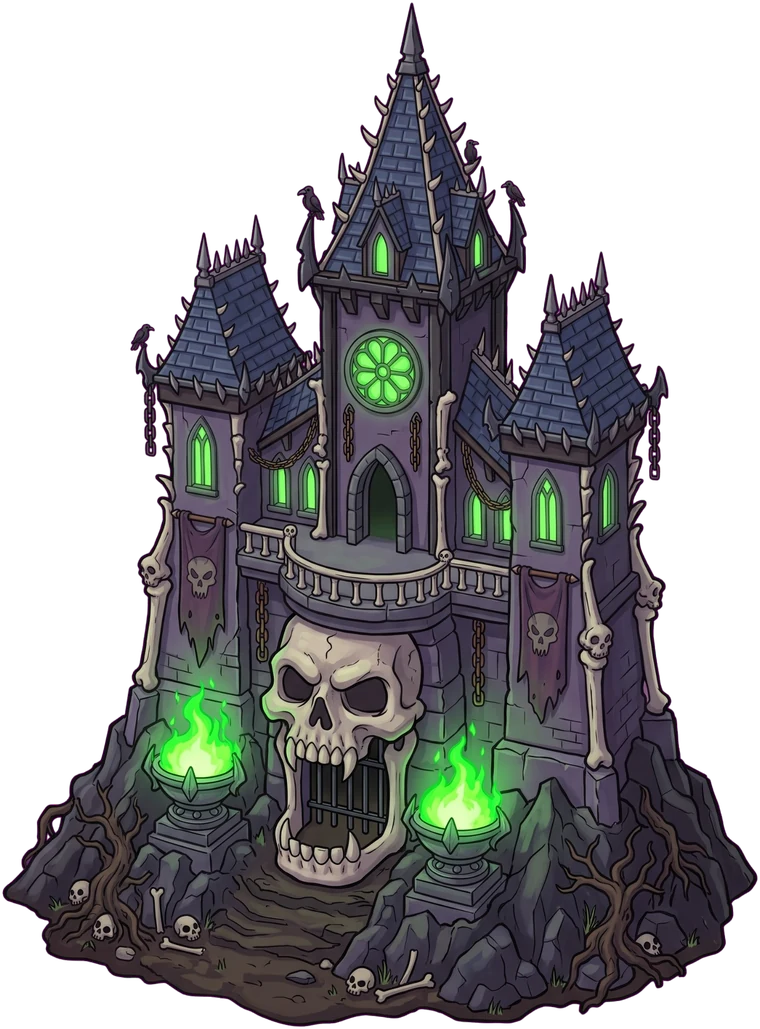
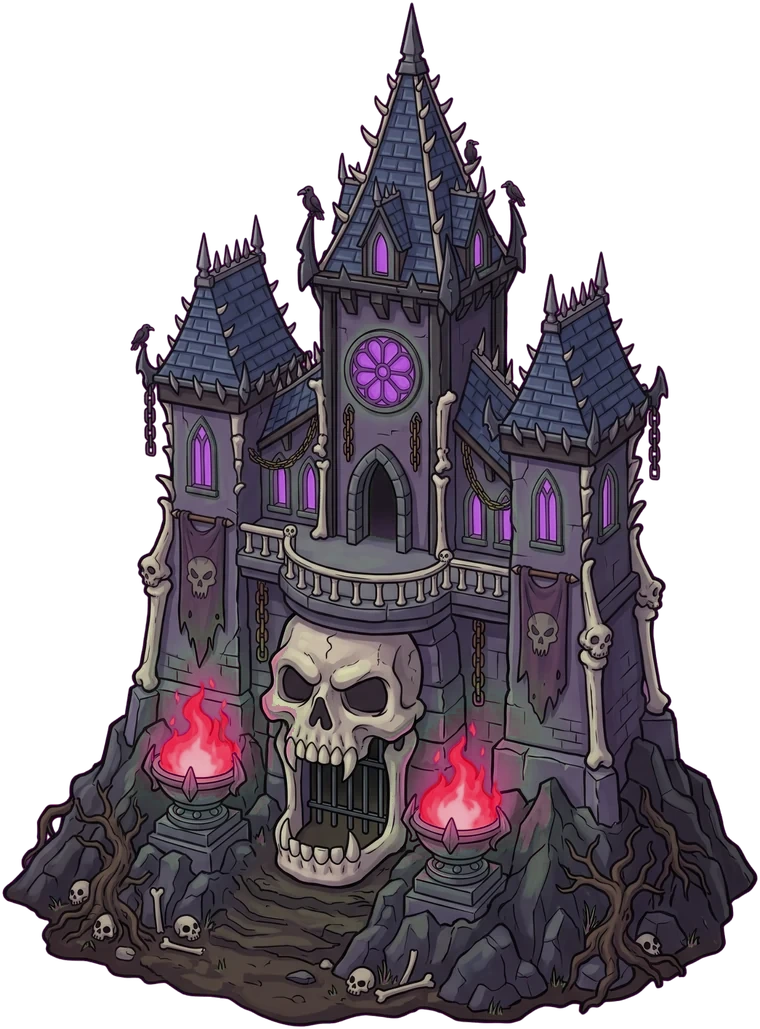
Kale yeşilleri mor/kızıl; dirilen ölüler morumsu kızıl, öne eğik zombi yürüyüşü, daha uzaktan saldırır

diff --git a/sinir-kalesi/js/game.js b/sinir-kalesi/js/game.js
@@ -108,9 +108,10 @@ function rottenOf(name, im) {
   const d = g.getImageData(0, 0, c.width, c.height), a = d.data;
   for (let i = 0; i < a.length; i += 4) {
     const L = a[i] * 0.3 + a[i + 1] * 0.59 + a[i + 2] * 0.11;
-    a[i] = (a[i] * 0.3 + (L * 0.74 + 16) * 0.7) * 0.86;
-    a[i + 1] = (a[i + 1] * 0.3 + (L * 0.92 + 30) * 0.7) * 0.86;
-    a[i + 2] = (a[i + 2] * 0.3 + (L * 0.68 + 12) * 0.7) * 0.86;
+    // 11 Eki (Caner): morumsu kızıl ceset rengi (eskiden solgun yeşil-gri)
+    a[i] = (a[i] * 0.3 + (L * 0.98 + 30) * 0.7) * 0.86;
+    a[i + 1] = (a[i + 1] * 0.3 + (L * 0.6 + 4) * 0.7) * 0.86;
+    a[i + 2] = (a[i + 2] * 0.3 + (L * 0.84 + 22) * 0.7) * 0.86;
   }
   g.putImageData(d, 0, 0);
   return (ROT[name] = c);
@@ -4176,15 +4177,15 @@ function raiseMinion(e, delay = 0) {
   if (G.soldiers.filter(s => s.minion && !s.dead).length >= S.max) return;
   if (G.stats) G.stats.raised++;
   const s = { militia: true, merc: true, minion: true, x: e.x, y: e.y, rx: e.x, ry: e.y, hp: M.hp * up, maxHp: M.hp * up, dmg: M.dmg, armor: M.armor,
-    rate: 1, speed: 40, engage: 60, atk: 0, target: null, dead: false, face: e.face || 1, anim: 0, slot: G.soldiers.length % 4, life: M.life * up, born: G.t + delay };
+    rate: 1, speed: 40, engage: 80, atk: 0, target: null, dead: false, face: e.face || 1, anim: 0, slot: G.soldiers.length % 4, life: M.life * up, born: G.t + delay }; // engage 80: dirilenler düşmana daha uzaktan saldırır
   // ceset düşmanın kendi kılığında kalkar (çürümüş renkte), en yakın düşmana saldırır
   if (e.name) {
     const D = ENEMIES[e.name.slice(6)];
     s.zname = e.name; s.zrig = e.rig; s.zh = e.h || (D ? D.r * 2.6 : 30); s.zombie = true;
   }
   G.soldiers.push(s);
-  G.effects.push({ kind: 'pillar', x: e.x, y: e.y, col: '140,255,140', t: 0, dur: 0.7 });
-  for (let i = 0; i < 8; i++) emit(G.parts, { kind: 'glow', add: true, x: e.x + rand(-8, 8), y: e.y - rand(0, 20), vy: -rand(20, 45), col: '140,255,120', s0: rand(2, 4), s1: 0.5, life: rand(0.5, 0.9) });
+  G.effects.push({ kind: 'pillar', x: e.x, y: e.y, col: '190,70,255', t: 0, dur: 0.7 });
+  for (let i = 0; i < 8; i++) emit(G.parts, { kind: 'glow', add: true, x: e.x + rand(-8, 8), y: e.y - rand(0, 20), vy: -rand(20, 45), col: i % 2 ? '230,50,110' : '190,80,255', s0: rand(2, 4), s1: 0.5, life: rand(0.5, 0.9) });
 }
 // Mortimer şapelin ön balkonunda durur. Hasar evresine göre (castle_1..3): at = ayak noktası (görsel oranı),
 // rail = korkuluk dikdörtgeni (x0, y0, x1, y1; Mortimer'dan sonra yeniden çizilir, ayakları korkuluğun arkasında kalır;
@@ -4291,7 +4292,7 @@ function drawNecroGlyph(id, r) {
     const im = spr('unit_skel_1');
     ctx.fillStyle = 'rgba(30,16,8,0.7)'; ctx.beginPath(); ctx.ellipse(0, r * 0.62, r * 0.75, r * 0.2, 0, 0, Math.PI * 2); ctx.fill();
     if (im) drawSprite(ctx, im, 0, r * 0.75, r * 1.5 * im.width / im.height);
-    if (G && G.raiseT > 0) { ctx.save(); ctx.globalCompositeOperation = 'lighter'; glow(ctx, 0, 0, r, '120,255,140', 0.4 + Math.sin(time * 8) * 0.15); ctx.restore(); }
+    if (G && G.raiseT > 0) { ctx.save(); ctx.globalCompositeOperation = 'lighter'; glow(ctx, 0, 0, r, '200,80,255', 0.4 + Math.sin(time * 8) * 0.15); ctx.restore(); }
     return;
   }
   const w = Math.sin(time * 4) * 1.5;
@@ -5493,7 +5494,7 @@ function update(dt) {
   if (G.intro) { G.intro.t += dt; if (G.intro.t > G.intro.dur) G.intro = null; }
   for (const f of G.effects) if (f.riseAt != null && f.kind === 'corpse' && f.t >= f.riseAt) { // çivili/lanetli ceset kendiliğinden dirilir
     f.riseAt = null;
-    if (G.soldiers.filter(s => s.minion && !s.dead).length < spellStats('nm_raise').max) { raiseMinion(f, 0); f.t = f.dur; floatText(f.x, f.y - 30, 'Kalktı!', '#9dff8a'); }
+    if (G.soldiers.filter(s => s.minion && !s.dead).length < spellStats('nm_raise').max) { raiseMinion(f, 0); f.t = f.dur; floatText(f.x, f.y - 30, 'Kalktı!', '#d98aff'); }
   }
   for (const g of G.ghosts) { // hayalet: yolda geriye süzülür, değdiğini yakar ve korkutur
     g.t += dt; g.d -= 85 * dt;
@@ -6675,7 +6676,7 @@ function raisePlagueZombie(pr) {
   const Z = pr.zombie, t = pr.tower, mine = G.soldiers.filter(o => o.plagueZ && !o.dead && o.byTower === t);
   if (mine.length >= CORPSE.max) mine.sort((a, b) => a.life - b.life)[0].life = 0; // en eskisi çürüyüp dağılır
   const s = { militia: true, merc: true, zombie: true, plagueZ: Z.dps, byTower: t, x: pr.tx, y: pr.ty, rx: pr.tx, ry: pr.ty, hp: Z.hp, maxHp: Z.hp, dmg: Z.zdmg, armor: 0.1,
-    rate: 1.1, speed: 34, engage: 60, atk: 0, target: null, dead: false, face: pr.body.face, anim: 0, slot: G.soldiers.length % 4, life: Z.life, born: G.t + 0.05,
+    rate: 1.1, speed: 34, engage: 80, atk: 0, target: null, dead: false, face: pr.body.face, anim: 0, slot: G.soldiers.length % 4, life: Z.life, born: G.t + 0.05,
     zname: pr.body.name, zrig: null, zh: CHAR_H[pr.body.name] || 26 };
   G.soldiers.push(s);
 }
@@ -7395,7 +7396,7 @@ function drawSoldier(s) {
       const walking = s.px !== undefined && dist(s.x, s.y, s.px, s.py) > 0.05;
       s.px = s.x; s.py = s.y;
       const ch = s.zh || 30 * UNIT_K;
-      ctx.save(); ctx.globalCompositeOperation = 'lighter'; glow(ctx, s.x, s.y - 2, 14, '110,255,140', 0.25); ctx.restore();
+      ctx.save(); ctx.globalCompositeOperation = 'lighter'; glow(ctx, s.x, s.y - 2, 14, '200,50,130', 0.25); ctx.restore();
       if (s.born != null && G.t < s.born) return;
       const up = s.born != null && G.t - s.born < DIE_T ? animStrip(key, s.zrig || s.zname, '_die') : null;
       if (up) { // yerden kalkış: ölüm kareleri tersten
@@ -7405,11 +7406,16 @@ function drawSoldier(s) {
         return;
       }
       const rise = s.born != null && G.t - s.born < 0.6 ? 0.1 + 0.9 * easeOutBack(clamp((G.t - s.born) / 0.6, 0, 1)) : null;
-      drawUnit(key, im, s.x, s.y, s.face || 1, { h: ch, rig: s.zrig || s.zname, phase: s.anim * 7, walking, fly: 0, rise,
+      // zombi gibi: öne eğik, sallanarak ağır ağır yürür (her adımda öne yalpalar), dövüşte saldırıya atılır gibi öne kapanır
+      const sd = (s.slot || 0) * 1.9, fc = s.face || 1, lurch = walking ? Math.max(0, Math.sin(s.anim * 3.2 + sd)) * 0.09 : 0;
+      const lean = fc * (0.1 + 0.035 * Math.sin(time * 1.7 + sd) + lurch + (fighting ? 0.06 * Math.max(0, Math.sin(atkPhase(s.rate, s.atk) * Math.PI)) : 0)) + Math.sin(time * 2.3 + sd) * 0.04;
+      ctx.save(); ctx.translate(s.x, s.y); ctx.rotate(lean); ctx.translate(-s.x, -s.y);
+      drawUnit(key, im, s.x, s.y, fc, { h: ch, rig: s.zrig || s.zname, phase: s.anim * 4.5, walking, fly: 0, rise,
         atk: fighting ? atkPhase(s.rate, s.atk) : null, atkVar: s.atkV, flash: s.flash, seed: (s.slot || 0) * 1.7 });
-      // başının üstünde soluk yeşil ruh alevi: bizim tarafta olduğu belli olsun
-      ctx.save(); ctx.globalCompositeOperation = 'lighter'; glow(ctx, s.x, s.y - ch - 3, 5 + Math.sin(time * 6 + s.slot) * 1, '120,255,140', 0.55); ctx.restore();
-      if (s.hp < s.maxHp) hpBar(s.x, s.y - ch - 8, 12, s.hp / s.maxHp, '#7ad36a');
+      ctx.restore();
+      // başının üstünde soluk mor ruh alevi: bizim tarafta olduğu belli olsun
+      ctx.save(); ctx.globalCompositeOperation = 'lighter'; glow(ctx, s.x + Math.sin(lean) * ch, s.y - ch - 3, 5 + Math.sin(time * 6 + s.slot) * 1, '200,80,255', 0.55); ctx.restore();
+      if (s.hp < s.maxHp) hpBar(s.x, s.y - ch - 8, 12, s.hp / s.maxHp, '#c75aa0');
       return;
     }
   }
@@ -8129,7 +8135,7 @@ function drawCorpse(f) {
     ctx.save();
     const fade0 = f.dur > CORPSE_DUR ? f.dur - 0.5 : 0.78;
     ctx.globalAlpha = 1 - clamp((t - fade0) / (f.dur - fade0), 0, 1);
-    if (f.raisable && t > 0.6 && G.spells.nm_raise <= 0) { ctx.save(); ctx.globalCompositeOperation = 'lighter'; glow(ctx, f.x, f.y, 12, '110,255,140', 0.18 + Math.sin(time * 5 + f.x) * 0.06); ctx.restore(); }
+    if (f.raisable && t > 0.6 && G.spells.nm_raise <= 0) { ctx.save(); ctx.globalCompositeOperation = 'lighter'; glow(ctx, f.x, f.y, 12, '190,70,255', 0.18 + Math.sin(time * 5 + f.x) * 0.06); ctx.restore(); }
     ctx.translate(f.x, f.y + 1); ctx.scale(f.face * (rig.flip ? -1 : 1), 1);
     drawFrame(spr(dk), F, i, f.h || CHAR_H[f.name] || 20);
     ctx.restore();
@@ -8155,7 +8161,7 @@ function drawCorpse(f) {
   const fade0 = f.dur > CORPSE_DUR ? f.dur - 0.5 : 0.78; // uzun yatan ceset son yarım saniyede solar
   ctx.globalAlpha = 1 - clamp((t - fade0) / (f.dur - fade0), 0, 1);
   // diriltme hazırsa kaldırılabilecek cesetlerin altında yeşil ruh ışığı
-  if (f.raisable && t > 0.6 && G.spells.nm_raise <= 0) { ctx.save(); ctx.globalCompositeOperation = 'lighter'; glow(ctx, f.x, f.y, 12, '110,255,140', 0.18 + Math.sin(time * 5 + f.x) * 0.06); ctx.restore(); }
+  if (f.raisable && t > 0.6 && G.spells.nm_raise <= 0) { ctx.save(); ctx.globalCompositeOperation = 'lighter'; glow(ctx, f.x, f.y, 12, '190,70,255', 0.18 + Math.sin(time * 5 + f.x) * 0.06); ctx.restore(); }
   // ölüm pozu bitince (0.8 sn) ceset değişmez: bir kez ayrı tuvale çizilir, sonra tek resim olarak basılır (10 sn yatan cesetler ucuzlasın)
   if (f.air) { ctx.fillStyle = 'rgba(0,0,0,0.22)'; ctx.beginPath(); ctx.ellipse(f.x, f.y + 1, w * 0.4, w * 0.13, 0, 0, Math.PI * 2); ctx.fill(); }
   if (t > 0.8 && !f.air && !rig.wings && (f.cache || CORPSE_BAKE-- > 0)) {
@@ -10138,13 +10144,13 @@ function avluFlame(x, y, hgt, wd, k, ph, col0, col1) {
   ctx.quadraticCurveTo(x - wd * 1.15, y - hgt * 0.45, x + sway, y - hgt * (0.9 + 0.2 * k));
   ctx.quadraticCurveTo(x + wd * 1.15, y - hgt * 0.45, x + wd, y + wd * 0.6); ctx.closePath(); ctx.fill();
 }
-// şapel pencereleri renk değiştirir (Caner, 10 Eki): yeşil → kızıl → mor → sarı, her pencere biraz gecikmeli (ışık dalga gibi geçer)
-const WIN_COLS = [[120, 255, 140], [255, 60, 60], [180, 90, 255], [255, 210, 80]];
+// şapel pencereleri renk değiştirir, her pencere biraz gecikmeli (ışık dalga gibi geçer); 11 Eki (Caner): yeşil yok, mor ve koyu kızıl tonları
+const WIN_COLS = [[175, 80, 255], [220, 40, 80], [140, 50, 210], [255, 70, 150]];
 function winCol(i) {
   const u = time / 3 + i * 0.12, a = Math.floor(u), f = u - a, k = f < 0.65 ? 0 : (f - 0.65) / 0.35, A = WIN_COLS[a % 4], B = WIN_COLS[(a + 1) % 4];
   return A.map((v, j) => Math.round(lerp(v, B[j], k))).join(',');
 }
-// heybetli kalenin ışıkları: iki mangalda yeşil ruh ateşi, pencereler ve gül pencere nabız gibi, kafatası kapının gözleri yanar
+// heybetli kalenin ışıkları: iki mangalda kızıl ruh ateşi (11 Eki: görsel de mor/kızıl, varliklar/kale_renk.py), pencereler ve gül pencere nabız gibi, kafatası kapının gözleri yanar
 const KEEP_FX = {
   fire: [[0.255, 0.715], [0.6, 0.765]], roof: [[0.276, 0.275], [0.8, 0.345]], eyes: [[0.405, 0.665], [0.505, 0.665]],
   win: [[0.505, 0.355, 2.2], [0.5, 0.245, 0.8], [0.63, 0.245, 0.8], [0.265, 0.455, 1], [0.36, 0.485, 0.8], [0.4, 0.485, 0.8],
@@ -10157,12 +10163,12 @@ function drawKeepLights(cp, h, sh, burning) {
     const [x, y] = P(f), k = 0.6 + 0.25 * Math.sin(time * 1.2 + i * 0.9) + 0.15 * Math.sin(time * 5 + i * 2) * Math.sin(time * 1.6 + i);
     glow(ctx, x, y, 22 * s * f[2], winCol(i), 0.15 * k + 0.05);
   }
-  for (const f of KEEP_FX.eyes) { const [x, y] = P(f); glow(ctx, x, y, 13 * s, '120,255,140', 0.3 + 0.2 * Math.sin(time * 2)); }
+  for (const f of KEEP_FX.eyes) { const [x, y] = P(f); glow(ctx, x, y, 13 * s, '255,60,100', 0.3 + 0.2 * Math.sin(time * 2)); }
   for (const [i, f] of KEEP_FX.fire.entries()) {
     const [x, y] = P(f), k = 0.5 + 0.5 * Math.sin(time * 9 + i * 2) * Math.sin(time * 5.3 + i);
-    glow(ctx, x, y - 6 * s, (62 + 10 * k) * s, '110,255,130', 0.32 + 0.12 * k);
-    for (let j = 0; j < 3; j++) avluFlame(x + (j - 1) * 9 * s, y + 10 * s, (40 + 14 * Math.sin(time * 7 + j * 2 + i)) * s * (j === 1 ? 1.2 : 0.8), 9 * s, k, j * 2 + i, '235,255,225', '90,255,110');
-    if (Math.random() < 0.05 * speed) emit(G.parts, { kind: 'glow', add: true, x: x + rand(-4, 4), y: y - 24 * s, vx: rand(-6, 6), vy: rand(-30, -16), col: '120,255,140', s0: rand(1, 1.8), s1: 0.2, life: rand(0.6, 1.1), a: 0.9 });
+    glow(ctx, x, y - 6 * s, (62 + 10 * k) * s, '230,40,90', 0.32 + 0.12 * k);
+    for (let j = 0; j < 3; j++) avluFlame(x + (j - 1) * 9 * s, y + 10 * s, (40 + 14 * Math.sin(time * 7 + j * 2 + i)) * s * (j === 1 ? 1.2 : 0.8), 9 * s, k, j * 2 + i, '255,225,235', '225,40,100');
+    if (Math.random() < 0.05 * speed) emit(G.parts, { kind: 'glow', add: true, x: x + rand(-4, 4), y: y - 24 * s, vx: rand(-6, 6), vy: rand(-30, -16), col: i % 2 ? '200,80,255' : '255,70,110', s0: rand(1, 1.8), s1: 0.2, life: rand(0.6, 1.1), a: 0.9 });
   }
   if (burning) for (const [i, f] of KEEP_FX.roof.entries()) { // ağır hasar: çatılarda yangın
     const [x, y] = P(f), k = 0.5 + 0.5 * Math.sin(time * 11 + i * 3) * Math.sin(time * 6.1 + i);

diff --git a/sinir-kalesi/js/data.js b/sinir-kalesi/js/data.js
@@ -729,7 +729,7 @@ Object.assign(CASTLE, { spots: [[0.21, 0.385], [0.67, 0.41], [0.46, 0.16]] }); /
 // fear: hedefli alan, düşmanlar kavgayı bırakıp yolda geri kaçar (bosslar yarı süre).
 const NECRO_SPELLS = {
   // cesetler ölümden sonra corpse sn yerde yatar; büyü o an yerdeki cesetleri iskelet minyon olarak kaldırır
-  nm_raise: { name: 'Ölüleri Diriltme', cd: 45, corpse: 6, col: '120,255,140', max: 10, minion: { hp: 80, dmg: [4, 8], armor: 0.1, life: 30 },
+  nm_raise: { name: 'Ölüleri Diriltme', cd: 45, corpse: 6, col: '190,80,255', max: 10, minion: { hp: 80, dmg: [4, 8], armor: 0.1, life: 30 },
     desc: 'Yerde yatan düşman cesetleri (ölümden sonra 10 sn) çürümüş ölüler olarak kalkar, düşmanın geldiği yöne yürüyüp senin için savaşır · 30 sn yaşarlar',
     short: 'Yerdeki cesetler çürümüş ölüler olarak kalkar, düşmana yürüyüp 30 sn senin için savaşır' },
   nm_wall:  { name: 'Kemik Duvarı', cd: 30, hp: 420, life: 7, col: '235,225,200',

diff --git a/sinir-kalesi/index.html b/sinir-kalesi/index.html
@@ -11,7 +11,7 @@
 <canvas id="game" aria-label="Sınır Kalesi oyun alanı"></canvas>
 <script>
   // Sürüm damgası: her yayında artırılır; tarayıcı eski önbellek kopyasını kullanmaz (js ve görseller).
-  window.SURUM = '348';
+  window.SURUM = '349';
   // dil: kayıtlı seçim (yoksa Türkçe); tr/en dışındakiler için çeviri sözlüğü dil.js'ten önce yüklenir
   window.__dilYukle = (function () {
     var l = null; try { l = localStorage.getItem('sinirKalesi.lang'); } catch (e) {}

diff --git a/sinir-kalesi/yayin.html b/sinir-kalesi/yayin.html
@@ -11,7 +11,7 @@
 <canvas id="game" aria-label="Sınır Kalesi oyun alanı"></canvas>
 <script>
   // Sürüm damgası: her yayında artırılır; tarayıcı eski önbellek kopyasını kullanmaz (js ve görseller).
-  window.SURUM = '348';
+  window.SURUM = '349';
   // dil: kayıtlı seçim (yoksa Türkçe); tr/en dışındakiler için çeviri sözlüğü dil.js'ten önce yüklenir
   window.__dilYukle = (function () {
     var l = null; try { l = localStorage.getItem('sinirKalesi.lang'); } catch (e) {}

diff --git a/varliklar/kale_renk.py b/varliklar/kale_renk.py
@@ -1,0 +1,25 @@
+"""Heybetli kale (castle_keep_1..3): yeşil pencere ve mangal ateşini mor / koyu kızıla boyar (Caner, 11 Eki).
+Yukarıdaki pencereler mor, aşağıdaki mangal ateşi kızıl (kenarları mora kayar). Kaynak: git'teki yeşil sürüm (img/ dosyası yerinde değişir).
+    .venv/bin/python varliklar/kale_renk.py
+"""
+import os, subprocess, io
+import numpy as np
+from PIL import Image
+IMG = os.path.join(os.path.dirname(os.path.abspath(__file__)), '..', 'sinir-kalesi', 'img')
+ORIG = 'c3feeab' # yeşil sürümün olduğu işleme
+for n in (1, 2, 3):
+    raw = subprocess.check_output(['git', 'show', f'{ORIG}:sinir-kalesi/img/castle_keep_{n}.webp'], cwd=IMG)
+    im = Image.open(io.BytesIO(raw)).convert('RGBA'); A = np.array(im).astype(np.float32) / 255
+    hsv = np.array(im.convert('RGB').convert('HSV')).astype(np.float32); h = hsv[..., 0] * 360 / 255; s = hsv[..., 1] / 255; v = hsv[..., 2] / 255
+    H, W = h.shape; yy = np.repeat((np.arange(H) / H)[:, None], W, 1)
+    g = (h > 70) & (h < 175) & (s > 0.07) & (A[..., 3] > 0.02) # yeşil (taşlara vuran soluk yeşil yansıma dahil)
+    w = np.clip((s - 0.07) / 0.15, 0, 1) # kenar pikselleri yumuşak geçiş
+    fire = yy > 0.6
+    th = np.where(fire, np.where(v > 0.75, 350, 330), 285) # ateş: kızıl, sönük yerleri morumsu; pencere: mor
+    tv = v * np.where(fire, 0.92, 0.85) # biraz koyu
+    ts = np.clip(s * 1.05, 0, 1)
+    out = Image.fromarray(np.dstack([th / 360 * 255, ts * 255, tv * 255]).astype(np.uint8), 'HSV').convert('RGB')
+    O = np.array(out).astype(np.float32) / 255; RGB = A[..., :3]
+    k = (g * w)[..., None]; R = RGB * (1 - k) + O * k
+    res = np.dstack([R, A[..., 3:]]); Image.fromarray((res * 255).round().astype(np.uint8), 'RGBA').save(os.path.join(IMG, f'castle_keep_{n}.webp'), 'WEBP', quality=92)
+    print('castle_keep', n, int(g.sum()), 'yeşil piksel')
